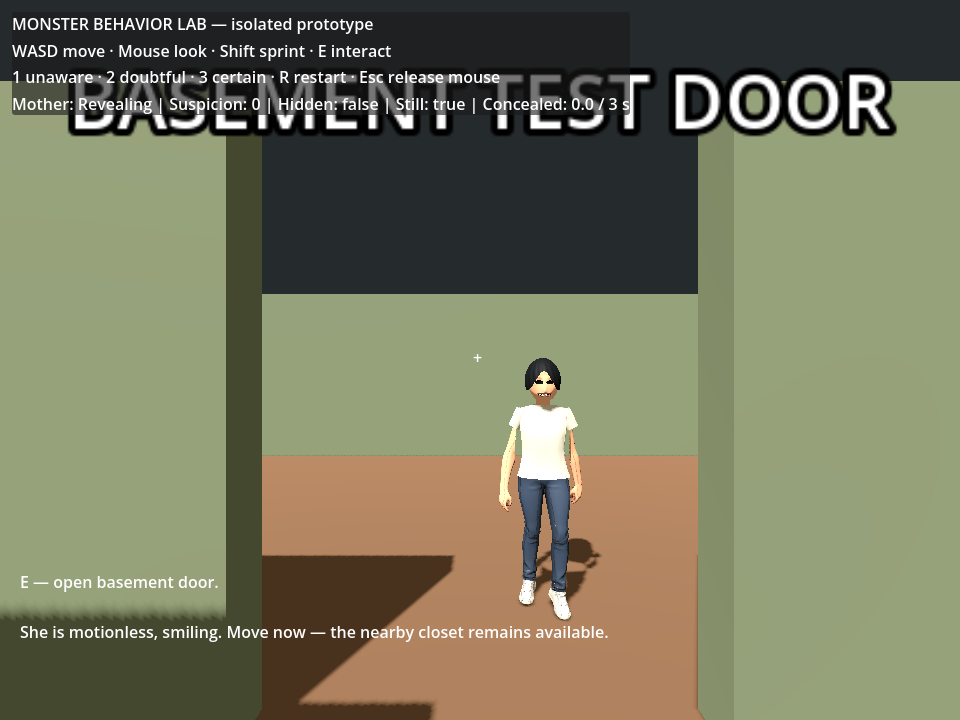
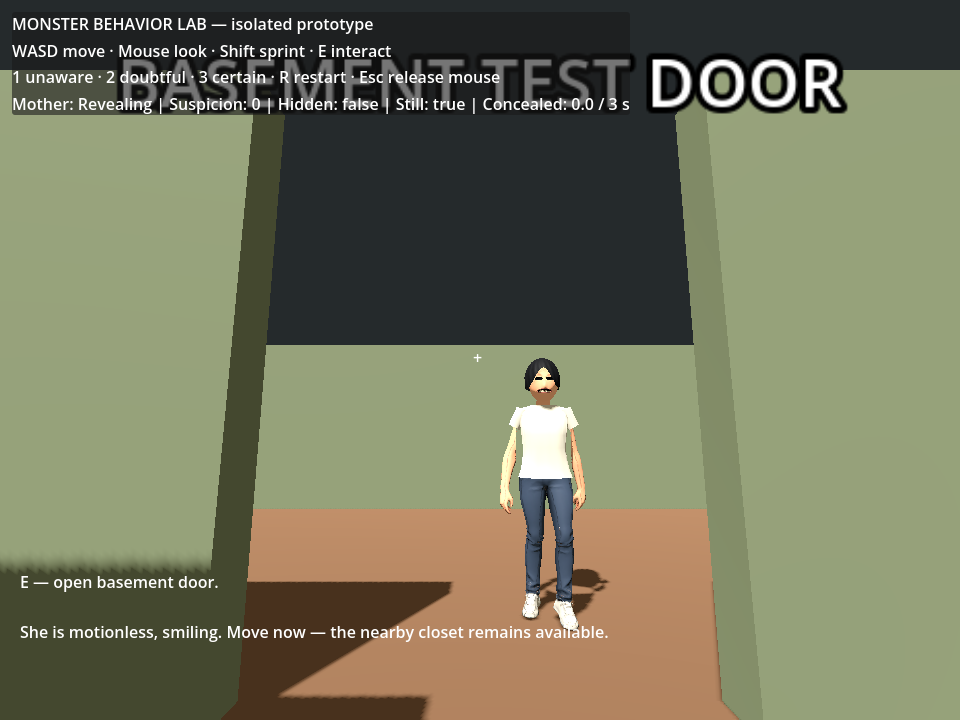
Lower player and capture cameras to look up at the mother

diff --git a/design/monster_behavior/README.md b/design/monster_behavior/README.md
@@ -5,6 +5,11 @@ Open the existing project in Godot **4.7.2**. In the FileSystem panel, open
 The room is built when the scene runs, so the editor initially shows an empty root.
 F5 still opens the existing model preview.
 
+The first-person camera is 1.05 m above the floor and starts tilted upward by
+10 degrees so the mother towers over the player. Mouse look remains free.
+The capture camera also looks up from this lower height. Adjust `eye_height` and
+`starting_look_up_degrees` in `first_person_player.gd` to tune the viewpoint.
+
 ## Controls
 
 | Input | Action |
